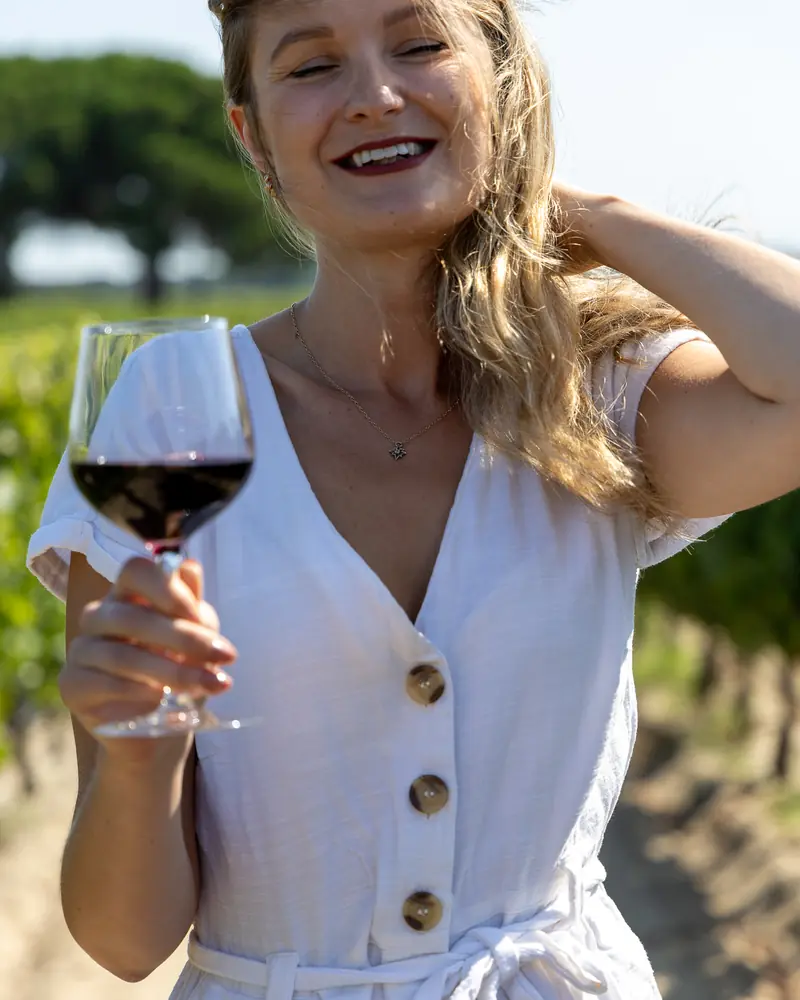
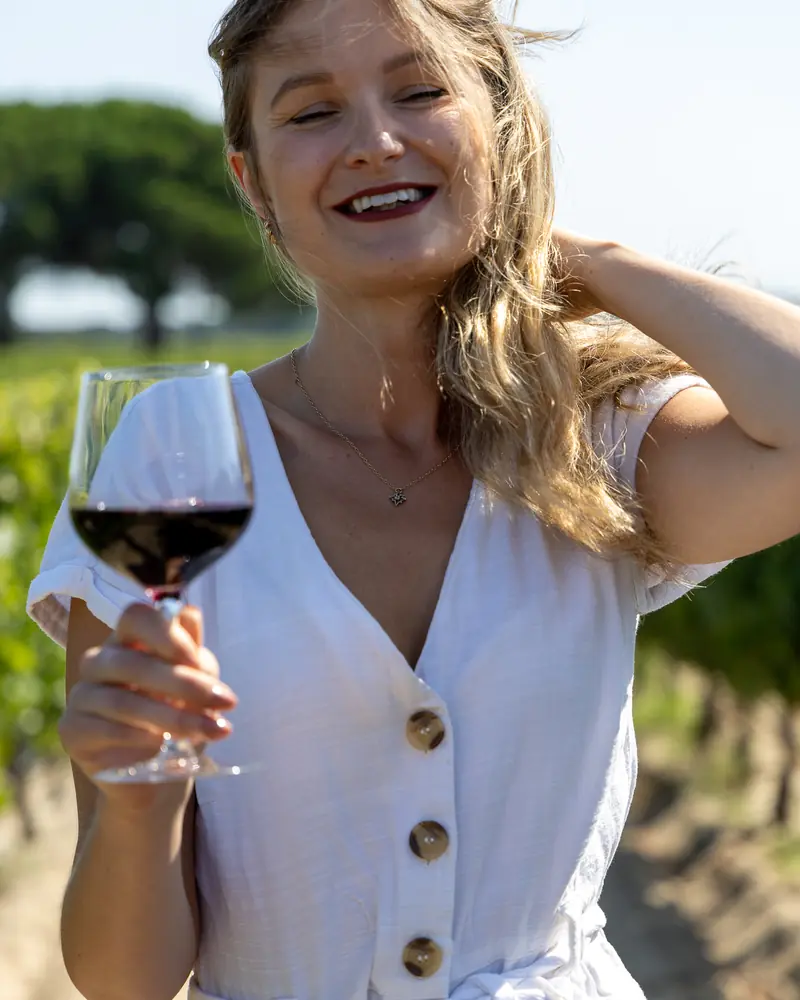
fix(about): preserve headroom in portraits + hero
- Recropped Nicola, Hazel, Meg, and story portraits with ImageOps.fit
  centering Y=0.22 (was 0.45) so the crop anchors near the top of the
  source frame — heads no longer clipped at the card top.
- Hero <img> gets object-position: center 25% so the founders sit
  comfortably in the visible region of the 80svh container instead of
  being cropped at the brow on shorter viewports.

Visual-only — no dim or CLS changes; existing intrinsic dims still match
the new file dims exactly.

diff --git a/about/index.html b/about/index.html
@@ -178,7 +178,7 @@
 
     /* HERO */
     .abt-hero{position:relative;width:100%;height:80svh;min-height:540px;overflow:hidden;background:var(--charcoal)}
-    .abt-hero-img{position:absolute;inset:0;width:100%;height:100%;object-fit:cover;opacity:0.6}
+    .abt-hero-img{position:absolute;inset:0;width:100%;height:100%;object-fit:cover;object-position:center 25%;opacity:0.6}
     .abt-hero::before{content:'';position:absolute;inset:0;background:linear-gradient(to right,rgba(26,26,26,0.82) 0%,rgba(26,26,26,0.5) 55%,rgba(26,26,26,0.2) 100%);z-index:1}
     .abt-hero::after{content:'';position:absolute;bottom:0;left:0;right:0;height:220px;background:linear-gradient(to top,var(--alabaster) 0%,transparent 100%);z-index:2}
     .abt-hero-inner{position:absolute;bottom:17%;left:var(--gutter);right:var(--gutter);z-index:3;max-width:760px}
